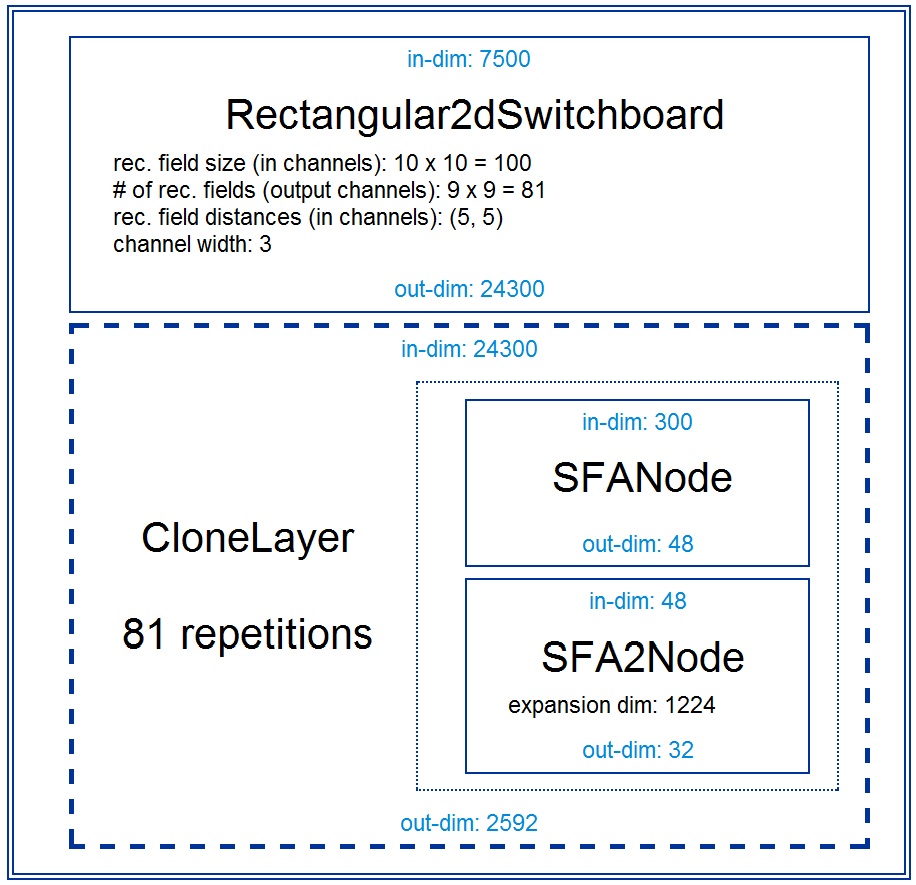
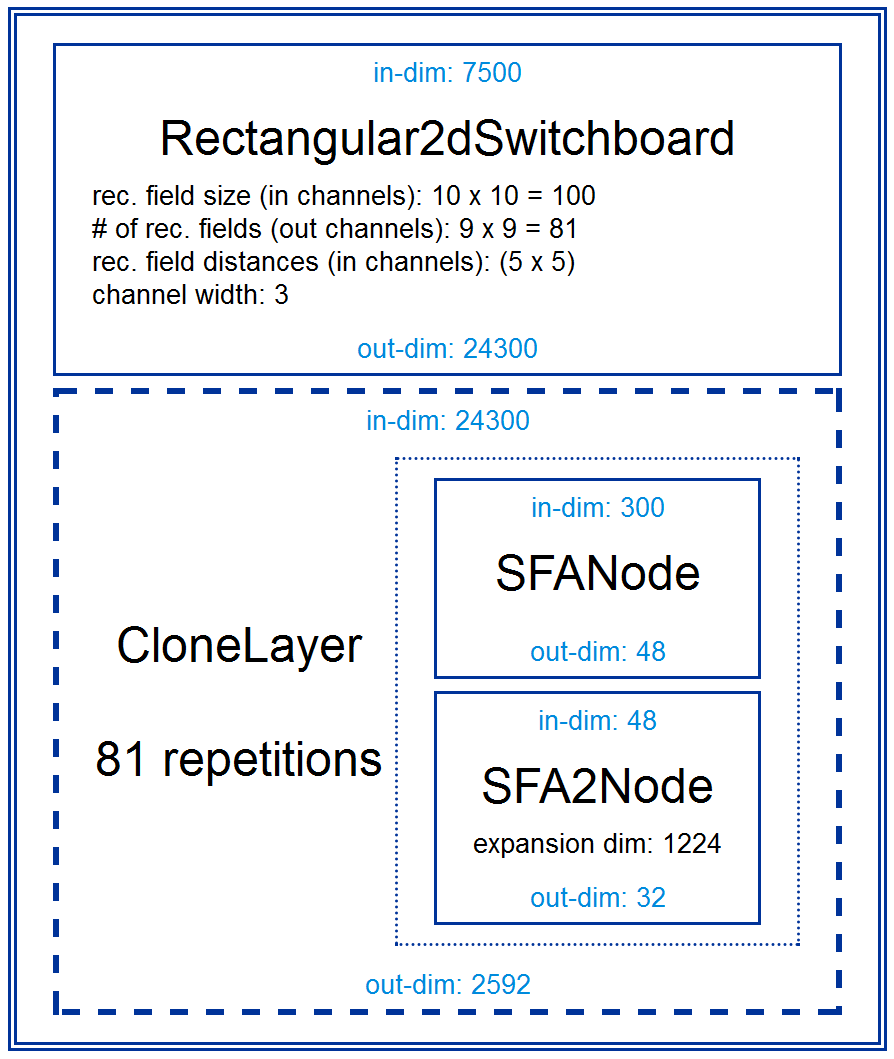
ERF: Updated the hinet HTML image.

Changed region(s): [[0.0, 0.0, 0.9966, 1.0], [0.1208, 0.5797, 0.3926, 0.6407]]

diff --git a/sphinx/source/tutorial_src/ch2_advanced.rst b/sphinx/source/tutorial_src/ch2_advanced.rst
@@ -677,7 +677,7 @@ The HTML representation of the the constructed flow looks like this in your
 browser:
 
 .. image:: hinet_html.png
-        :width: 450
+        :width: 400
         :alt: hinet HTML rendering
 
 Now one can train this flow for example with image sequences from a movie.
